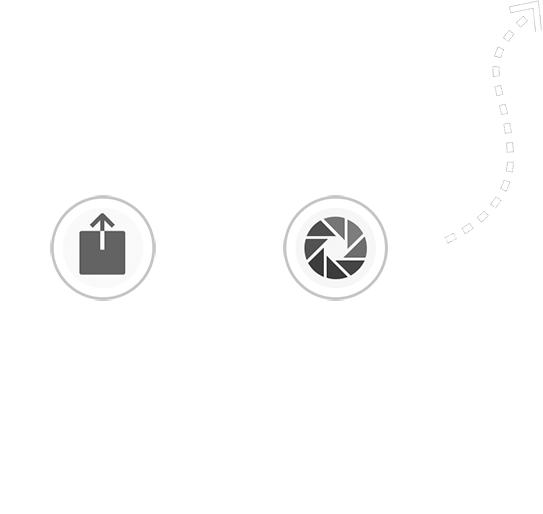
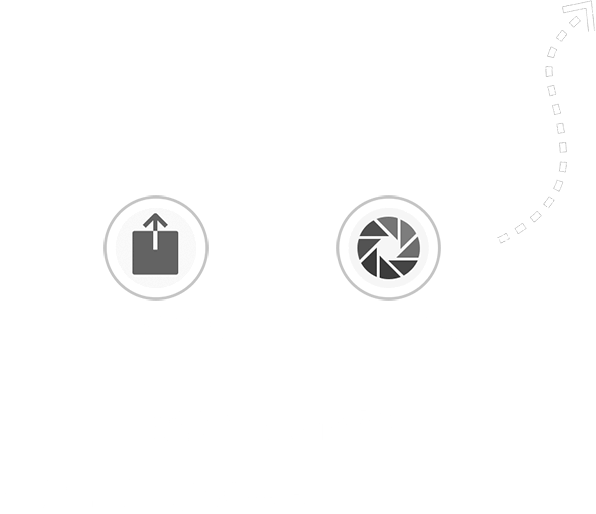
更新图片

diff --git a/src/page/ResultPage.vue b/src/page/ResultPage.vue
@@ -70,8 +70,8 @@ export default {
     margin: 68px 0 0 158px;
 }
 .r-02{
-    width: 450px;
-    margin: 80px 0 0 150px;
+    width: 662px;
+    margin: 80px 0 0 44px;
 }
 .r-btn-group{
     @extend %flex-v-center-h-between;
@@ -83,7 +83,7 @@ export default {
 }
 .r-05{
     width: 638px;
-    margin: 80px 0 0 56px;
+    margin: 50px 0 0 56px;
 }
 .box{
     width: 100%;
@@ -106,8 +106,8 @@ export default {
 }
 .cn{
     .r-02{
-        width: 608px;
-        margin: 80px 0 0 71px;
+        width: 662px;
+        margin: 50px 0 0 44px;
     }
     .share-wrap{
         width: 100%;
@@ -117,8 +117,8 @@ export default {
         top: 0;
         left: 0;
         img{
-            width: 543px;
-            margin: 20px 0 0 153px;
+            width: 596px;
+            margin: 20px 0 0 100px;
         }
     }
 }
